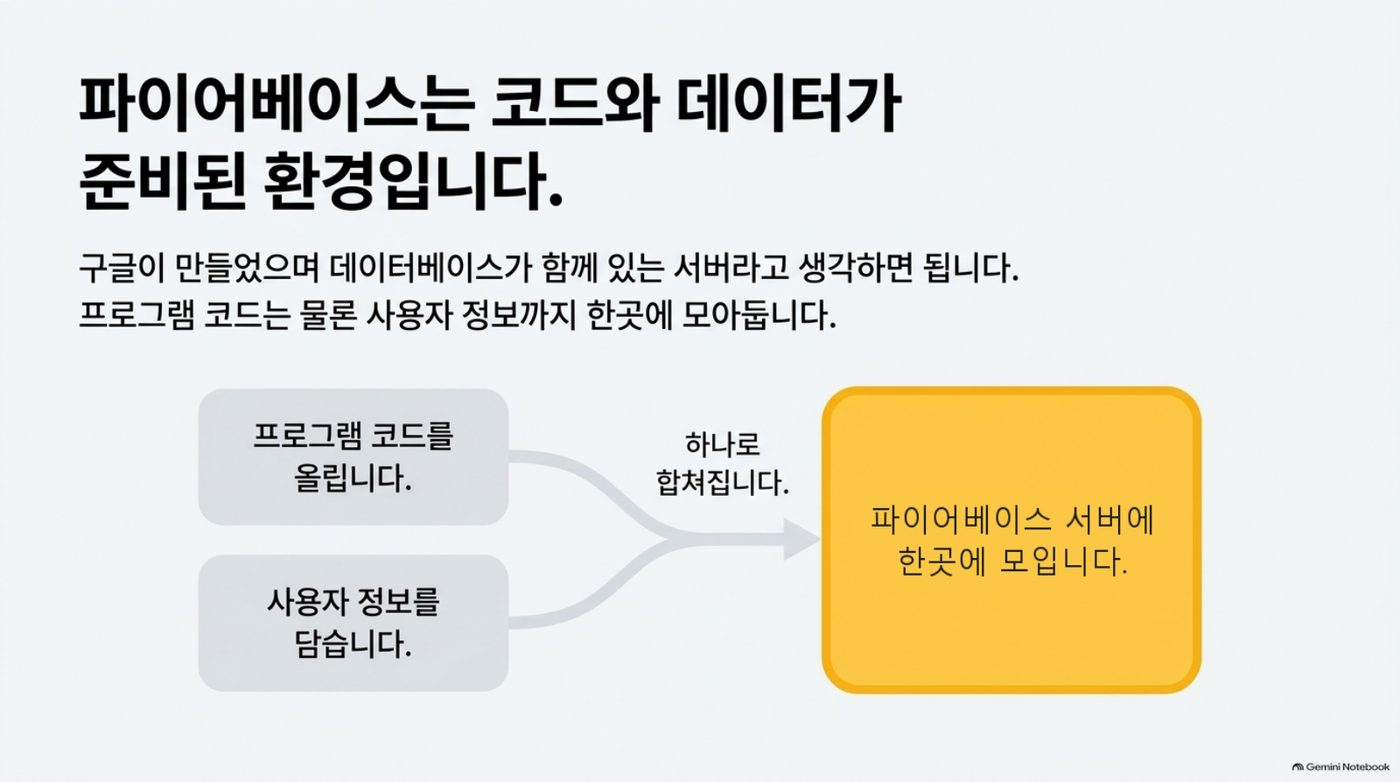
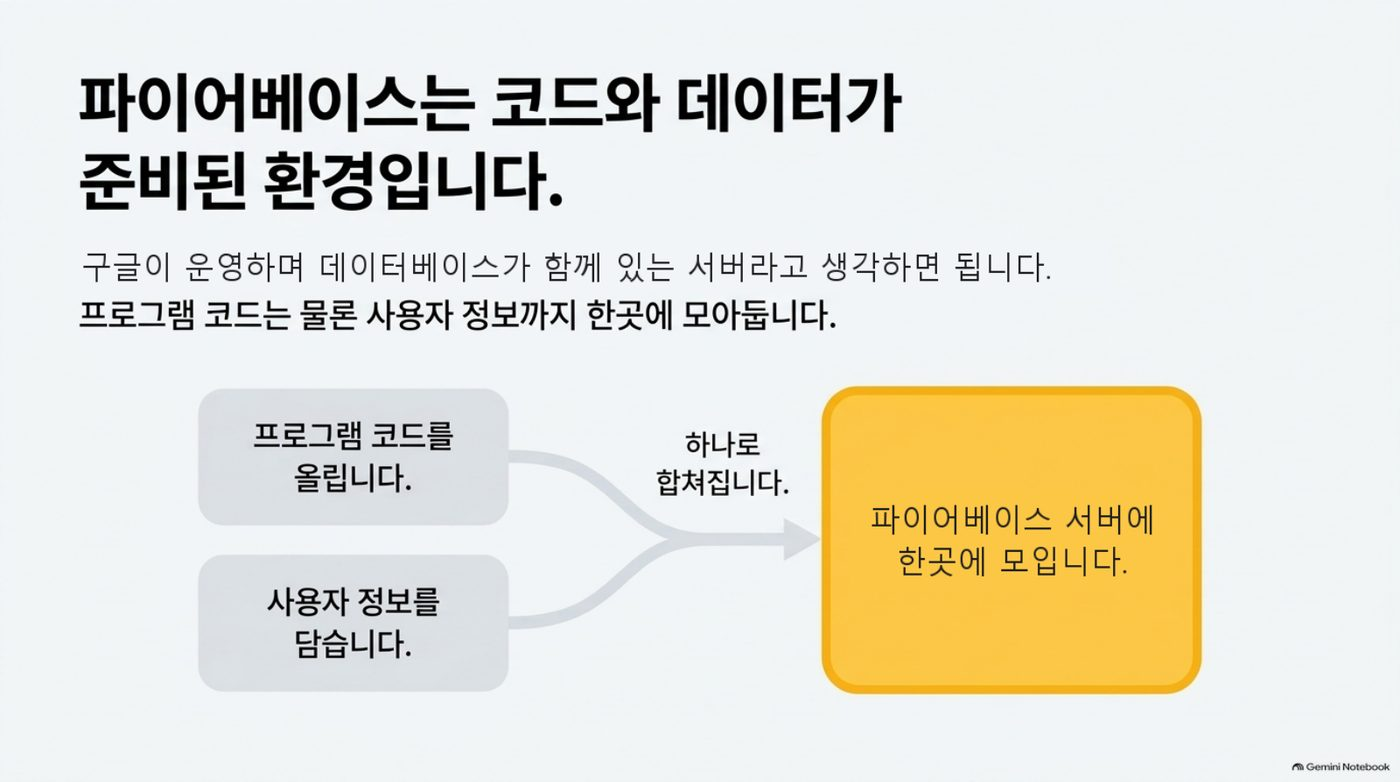
사이트 전체 사실 점검 반영 — b04 요금·부가세, a05-gcpw Home 미지원, a05 소유권 이전·Intune, a05-flex 관리 라이선스, a02 버전 30일, b13 나이팅게일 42→2%, b00 파이어베이스 인수(슬라이드 6쪽 덮어 고침) + 「✏ 강의 뒤 보충」

Changed region(s): [[0.0614, 0.3069, 0.7371, 0.3683]]

diff --git a/data.js b/data.js
@@ -201,6 +201,7 @@ const ITEM_SLIDES = {
    첫 화면에는 앞의 6개만 보입니다. 오래된 줄은 지우지 않아도 됩니다.
    ─────────────────────────────────────────────────────────────────── */
 const RECENT = [
+  { date: "2026-10-24", id: "a02", what: "사이트 전체 사실 점검 — 요금·지원 범위·버전 보관 기간 등 10곳을 근거와 함께 바로잡음(「✏ 강의 뒤 보충」)" },
   { date: "2026-10-24", id: "a08-vids", what: "「✏ 강의 뒤 보충」 칸을 새로 둠 — 비즈 영상 30분·미트 시간 제한·깃허브를 만든 사람을 바로잡음" },
   { date: "2026-10-23", id: "b00", what: "처음 듣는 개발 용어 슬라이드 9쪽 — 깃허브·버셀·파이어베이스·API·CLI를 한 장의 지도로" },
   { date: "2026-10-22", id: "b04", what: "슬라이드 9쪽 — 시트·문서·슬라이드 안의 클로드" },
@@ -1108,7 +1109,7 @@ const CURRICULUM = [
       },
       {
         h: "구글이 만들지 않은 파일도 버전이 남습니다",
-        p: "구글 문서·시트는 자체 **버전 기록**이 있습니다. 한글·파워포인트·PDF·그림·캐드처럼 구글이 만들지 않은 파일은 **데스크톱용 드라이브가 버전을 관리**합니다 — 파일에서 마우스 오른쪽 › **파일 정보 › 버전 관리**로 들어가면 누가 언제 올렸는지 목록이 나오고(파일당 최대 100개), 필요한 버전을 **영구 보관**한 뒤 **다운로드**하면 그 시점의 파일을 받을 수 있습니다.\n\n여럿이 겹치지 않게 차례로 고치면 버전이 쌓이고, 동시에 고치면 각자 따로 저장됩니다. 실수로든 일부러든 누가 망가뜨려도 되돌릴 길이 남습니다.",
+        p: "구글 문서·시트는 자체 **버전 기록**이 있습니다. 한글·파워포인트·PDF·그림·캐드처럼 구글이 만들지 않은 파일은 **드라이브가 버전을 관리**합니다(웹에 올린 파일도 같습니다) — 파일에서 마우스 오른쪽 › **파일 정보 › 버전 관리**로 들어가면 누가 언제 올렸는지 목록이 나오고(파일당 최대 100개, **30일이 지나면 자동으로 지워지니** 남길 버전은 꼭 「영구 보관」), 필요한 버전을 **영구 보관**한 뒤 **다운로드**하면 그 시점의 파일을 받을 수 있습니다.\n\n여럿이 겹치지 않게 차례로 고치면 버전이 쌓이고, 동시에 고치면 각자 따로 저장됩니다. 실수로든 일부러든 누가 망가뜨려도 되돌릴 길이 남습니다.",
       },
       {
         h: "랜섬웨어에 걸렸다면 — 드라이브에 올려 둔 파일은 되살릴 수 있습니다",
@@ -1135,6 +1136,10 @@ const CURRICULUM = [
     docs: [
       { t: "데스크톱용 Google Drive 사용하기", u: "https://support.google.com/drive/answer/7329379?hl=ko" },
       { t: "공유 드라이브란?", u: "https://support.google.com/a/users/answer/9310351?hl=ko" },
+    ],
+    /* 강의 뒤 보충 — 강의에서 한 말 중 틀리거나 바뀐 것 (근거 확인일 포함) */
+    fixes: [
+      { was: "구글이 만들지 않은 파일은 데스크톱용 드라이브가 버전을 관리한다(최대 100개).", now: "버전 관리는 **드라이브 자체 기능**이라 웹에 올린 파일도 같습니다. 그리고 이전 버전은 **30일이 지나거나 100개를 넘으면 자동으로 지워집니다** — 남길 버전은 「영구 보관」을 눌러야 합니다.", src: [{ t: "드라이브 파일 버전 도움말", u: "https://support.google.com/drive/answer/2409045?hl=ko" }], date: "2026-10-24" },
     ],
     /* 현장에서 나온 질문 — 녹음에서 수강생이 실제로 물은 것 */
     qa: [
@@ -1455,7 +1460,7 @@ const CURRICULUM = [
       {
         h: "관리자가 볼 수 있는 것과 볼 수 없는 것",
         topic: "관리자가 볼 수 있는 것과 없는 것",
-        p: "관리자는 직원의 **내 드라이브 파일 내용을 그냥 열어 볼 수는 없습니다.** 다만 「억지로」 보는 길이 두 가지 있습니다 — ① 직원의 **비밀번호를 재설정**해 그 계정으로 들어가기 ② 관리 콘솔의 **소유권 이전**으로 직원 파일을 통째로 관리자에게 넘기기. 두 경우 모두 **직원이 반드시 알아챕니다**(비밀번호가 바뀌어 있거나, 파일이 사라져 있으니까요).\n\n공유 드라이브는 관리 콘솔의 **공유 드라이브 관리**에서 관리자가 스스로를 멤버로 넣을 수 있습니다. 그리고 파일 내용과 별개로 **누가 어떤 파일을 열고·고치고·지웠는지**는 아래의 감사 기록으로 남습니다.\n\n📌 **비밀번호는 누구에게도 알려 주지 않습니다** — 윗사람이 달라고 해도 마찬가지입니다. 알면 모르게 들어갈 수 있게 됩니다.",
+        p: "관리자는 직원의 **내 드라이브 파일 내용을 그냥 열어 볼 수는 없습니다.** 다만 「억지로」 보는 길이 두 가지 있습니다 — ① 직원의 **비밀번호를 재설정**해 그 계정으로 들어가기 ② 관리 콘솔의 **소유권 이전**으로 직원 파일을 통째로 관리자에게 넘기기. 두 경우 모두 **직원이 반드시 알아챕니다**(비밀번호가 바뀌어 있거나, 소유권이 넘어갔다는 안내 메일이 가니까요).\n\n공유 드라이브는 관리 콘솔의 **공유 드라이브 관리**에서 관리자가 스스로를 멤버로 넣을 수 있습니다. 그리고 파일 내용과 별개로 **누가 어떤 파일을 열고·고치고·지웠는지**는 아래의 감사 기록으로 남습니다.\n\n📌 **비밀번호는 누구에게도 알려 주지 않습니다** — 윗사람이 달라고 해도 마찬가지입니다. 알면 모르게 들어갈 수 있게 됩니다.",
       },
       {
         h: "그룹부터 만들어 두기 — 전 직원 · 팀 · 부서장",
@@ -1469,7 +1474,7 @@ const CURRICULUM = [
       },
       {
         h: "구글은 브라우저를, MS 365는 윈도우를 다스립니다",
-        p: "구글 워크스페이스와 MS 365 모두 **중앙 통제 시스템**입니다. 다만 MS 365는 윈도우를 만든 회사라 관리자가 **USB 차단, 바탕화면 로고, PC 켜고 끈 시각**까지 다룰 수 있고, 구글은 **크롬 브라우저**(앱·북마크·홈페이지·배경)까지 다룹니다.\n\n구글로 PC 자체를 다루고 싶다면 운영체제를 바꾸는 길이 있습니다 — 같은 묶음의 **「오래된 PC 살리기 (ChromeOS Flex)」**를 보십시오.",
+        p: "구글 워크스페이스와 MS 365 모두 **중앙 통제 시스템**입니다. 다만 MS 365는 윈도우를 만든 회사라 관리자가 **USB 차단, 바탕화면 로고, PC 켜고 끈 시각**까지 다룰 수 있고(Intune이 들어 있는 Business Premium 등 상위 요금제), 구글은 **크롬 브라우저**(앱·북마크·홈페이지·배경)까지 다룹니다.\n\n구글로 PC 자체를 다루고 싶다면 운영체제를 바꾸는 길이 있습니다 — 같은 묶음의 **「오래된 PC 살리기 (ChromeOS Flex)」**를 보십시오.",
       },
     ],
     videos: [
@@ -1477,6 +1482,11 @@ const CURRICULUM = [
     ],
     docs: [
       { t: "관리 콘솔 시작하기", u: "https://support.google.com/a/answer/182076?hl=ko" },
+    ],
+    /* 강의 뒤 보충 — 강의에서 한 말 중 틀리거나 바뀐 것 (근거 확인일 포함) */
+    fixes: [
+      { was: "관리자가 소유권을 넘기면 직원 파일이 사라지니 직원이 알아챈다.", now: "소유권을 넘겨도 **파일은 사라지지 않고** 이전 소유자도 계속 편집할 수 있습니다. 다만 **안내 메일이 가므로** 직원이 알게 되는 것은 같습니다.", src: [{ t: "관리자 소유권 이전 도움말", u: "https://knowledge.workspace.google.com/admin/drive/transfer-drive-files-to-a-new-owner-as-an-admin" }], date: "2026-10-24" },
+      { was: "MS 365는 USB 차단·바탕화면·PC 켜고 끈 시각까지 다룬다.", now: "그 기능은 **Intune이 들어 있는 요금제**(Business Premium, E3·E5 등)에서만 됩니다. Basic·Standard에는 없습니다.", src: [{ t: "Microsoft 365 Business Premium", u: "https://www.microsoft.com/microsoft-365/business/microsoft-365-business-premium" }], date: "2026-10-24" },
     ],
     /* 현장에서 나온 질문 — 녹음에서 수강생이 실제로 물은 것 */
     qa: [
@@ -1546,7 +1556,7 @@ const CURRICULUM = [
       },
       {
         h: "준비할 것",
-        p: "· **Windows 10·11 Pro 이상**(Home 버전은 일부 기능이 제한됩니다)\n· 관리 콘솔 관리자 권한 — 관리 콘솔 › 기기 › 모바일 및 엔드포인트 › 설정 › Windows에서 GCPW 설정을 켜고 설치 파일을 받습니다.\n· 설치는 각 PC에서 관리자가 한 번씩 합니다. 기존 윈도우 계정의 자료는 구글 계정과 연결해 그대로 쓸 수 있습니다.",
+        p: "· **Windows 10·11 Pro 이상**(Home 버전은 **지원되지 않습니다**)\n· 관리 콘솔 관리자 권한 — 관리 콘솔 › 기기 › 모바일 및 엔드포인트 › 설정 › Windows에서 GCPW 설정을 켜고 설치 파일을 받습니다.\n· 설치는 각 PC에서 관리자가 한 번씩 합니다. 기존 윈도우 계정의 자료는 구글 계정과 연결해 그대로 쓸 수 있습니다.",
       },
     ],
     videos: [
@@ -1554,6 +1564,10 @@ const CURRICULUM = [
     ],
     docs: [
       { t: "Windows용 Google 사용자 인증 정보 제공 프로그램(GCPW) 설치하기", u: "https://support.google.com/a/answer/9250996?hl=ko" },
+    ],
+    /* 강의 뒤 보충 — 강의에서 한 말 중 틀리거나 바뀐 것 (근거 확인일 포함) */
+    fixes: [
+      { was: "윈도우 Home 버전은 일부 기능이 제한된다.", now: "GCPW는 Windows 10·11 **Pro·Pro for Workstations·Enterprise·Education**만 지원합니다. **Home은 지원되지 않습니다.**", src: [{ t: "GCPW 설치 도움말", u: "https://knowledge.workspace.google.com/admin/devices/install-google-credential-provider-for-windows" }], date: "2026-10-24" },
     ],
     notes: [
       "한 PC에 여러 직원이 GCPW로 로그인할 수는 있지만, Windows 기기 관리에는 PC당 한 사람만 등록됩니다. 공용 PC라면 이 점을 먼저 정해 두세요.",
@@ -1567,7 +1581,7 @@ const CURRICULUM = [
     lesson: [
       {
         h: "구글로 PC 자체를 다루고 싶다면 — 운영체제를 바꿉니다",
-        p: "구글 관리 콘솔이 다룰 수 있는 것은 **크롬 브라우저**까지입니다(앱·북마크·홈페이지·배경). 윈도우를 만든 MS 365는 USB 차단이나 바탕화면까지 다룹니다. 구글 쪽에서 PC 전체를 다루려면 운영체제를 **ChromeOS**로 바꾸면 됩니다. 새 크롬북에 들어가는 ChromeOS는 유료이고, 가지고 있는 PC에 까는 **ChromeOS Flex는 무료**입니다.",
+        p: "구글 관리 콘솔이 다룰 수 있는 것은 **크롬 브라우저**까지입니다(앱·북마크·홈페이지·배경). 윈도우를 만든 MS 365는 USB 차단이나 바탕화면까지 다룹니다(Intune이 들어 있는 상위 요금제). 구글 쪽에서 PC 전체를 다루려면 운영체제를 **ChromeOS**로 바꾸면 됩니다. 새 크롬북에 들어가는 ChromeOS는 유료이고, 가지고 있는 PC에 까는 **ChromeOS Flex는 무료**입니다. 다만 관리 콘솔에 등록해 원격으로 관리하거나 한 가지 목적의 PC(키오스크)로 쓰려면 **기기마다 유료 관리 라이선스**가 필요합니다.",
       },
       {
         h: "어떤 PC에 까나 — 기관 어딘가에 잠들어 있는 그 PC",
@@ -1583,6 +1597,10 @@ const CURRICULUM = [
       { t: "ChromeOS Flex 소개 (구글)", u: "https://chromeenterprise.google/intl/ko_kr/os/chromeosflex/" },
       { t: "ChromeOS Flex 설치 준비", u: "https://support.google.com/chromeosflex/answer/11552529?hl=ko" },
       { t: "ChromeOS Flex 인증 모델 목록", u: "https://support.google.com/chromeosflex/answer/11513094?hl=ko" },
+    ],
+    /* 강의 뒤 보충 — 강의에서 한 말 중 틀리거나 바뀐 것 (근거 확인일 포함) */
+    fixes: [
+      { was: "ChromeOS Flex는 무료이고, 관리 콘솔로 한 가지 목적의 PC로 쓸 수 있다.", now: "Flex 운영체제는 무료가 맞습니다. 그러나 **관리 콘솔에 등록해 관리하거나 키오스크로 쓰려면 기기마다 유료 라이선스**(Chrome Enterprise Upgrade, Kiosk & Signage Upgrade 등)가 필요합니다.", src: [{ t: "ChromeOS Flex 도움말", u: "https://support.google.com/chromeosflex/answer/13007418" }], date: "2026-10-24" },
     ],
     /* 현장에서 나온 질문 — 녹음에서 수강생이 실제로 물은 것 */
     qa: [
@@ -1857,7 +1875,7 @@ const CURRICULUM = [
     lesson: [
       {
         h: "다섯 낱말, 한 줄로",
-        p: "· **바이브 코딩** — 말로 시키면 인공지능이 코드를 씁니다. 문과생·사회복지사도 만들 수 있습니다.\n· **깃허브** — 그 코드를 올려 두는 「코드 도서관」. 공개·비공개를 고르고, 여럿이 함께 고칠 수 있습니다.\n· **버셀·파이어베이스** — 코드를 실행해 다른 사람이 **주소로** 쓰게 나눠 주는 곳. 깃허브에 고친 코드를 올리면 자동으로 바뀝니다. 파이어베이스는 구글이 만든, 데이터베이스까지 갖춘 환경입니다.\n· **API** — 바깥의 정보·기능을 내 프로그램으로 잇는 연결 통로. 예: 공휴일 공공데이터를 달력에, 지도 서비스의 거리·요금을 차량 운행 일지에.\n· **CLI** — 글자로 명령하는 화면. 인공지능이 글자를 다루기 쉬워서, 인공지능에게 쥐여 주는 도구가 됩니다.",
+        p: "· **바이브 코딩** — 말로 시키면 인공지능이 코드를 씁니다. 문과생·사회복지사도 만들 수 있습니다.\n· **깃허브** — 그 코드를 올려 두는 「코드 도서관」. 공개·비공개를 고르고, 여럿이 함께 고칠 수 있습니다.\n· **버셀·파이어베이스** — 코드를 실행해 다른 사람이 **주소로** 쓰게 나눠 주는 곳. 깃허브에 고친 코드를 올리면 자동으로 바뀝니다. 파이어베이스는 구글이 운영하는(2014년 인수), 데이터베이스까지 갖춘 환경입니다.\n· **API** — 바깥의 정보·기능을 내 프로그램으로 잇는 연결 통로. 예: 공휴일 공공데이터를 달력에, 지도 서비스의 거리·요금을 차량 운행 일지에.\n· **CLI** — 글자로 명령하는 화면. 인공지능이 글자를 다루기 쉬워서, 인공지능에게 쥐여 주는 도구가 됩니다.",
       },
       {
         h: "모두가 알아야 하나요?",
@@ -1869,6 +1887,7 @@ const CURRICULUM = [
     /* 강의 뒤 보충 — 강의에서 한 말 중 틀리거나 바뀐 것 (근거 확인일 포함) */
     fixes: [
       { was: "깃허브는 리눅스를 만든 사람이 처음 만들었고, 뒤에 마이크로소프트가 샀다.", now: "리누스 토르발스가 만든 것은 **깃(Git)** 입니다. **깃허브**는 깃을 바탕으로 2008년 다른 개발자들이 세운 서비스이고, 2018년부터 마이크로소프트 소속입니다.", src: [{ t: "GitHub (위키백과)", u: "https://en.wikipedia.org/wiki/GitHub" }], date: "2026-10-24" },
+      { was: "파이어베이스는 구글이 만든 개발 환경이다.", now: "파이어베이스는 2011년 다른 창업자들이 세운 회사이고, **2014년 구글이 인수**했습니다. 지금은 구글이 운영합니다.", src: [{ t: "Firebase (Y Combinator)", u: "https://www.ycombinator.com/companies/firebase" }], date: "2026-10-24" },
     ],
     notes: [],
   },
@@ -2013,7 +2032,7 @@ const CURRICULUM = [
     lesson: [
       {
         h: "나이팅게일은 간호사이자 통계학자였습니다",
-        p: "크림전쟁(1853) 후방기지에 배치된 플로렌스 나이팅게일은, 군인들이 전투가 아니라 **전염병으로 죽고 있다**는 것을 알아냅니다. 그는 그것을 말로 설명하지 않고 **로즈 다이어그램**이라는 그림으로 그려 보였습니다.\n\n결과는 **사망률 42% → 4%.** 데이터가 사람을 살린 가장 유명한 사례입니다.",
+        p: "크림전쟁(1853) 후방기지에 배치된 플로렌스 나이팅게일은, 군인들이 전투가 아니라 **전염병으로 죽고 있다**는 것을 알아냅니다. 그는 그것을 말로 설명하지 않고 **로즈 다이어그램**이라는 그림으로 그려 보였습니다.\n\n결과는 **사망률 42% → 2%.** 사망률은 위생을 개선한 뒤 떨어졌고, 그림은 전쟁 뒤(1858년) 보고서에 실려 군 병원 개혁을 이끌었습니다. 데이터가 사람을 살린 가장 유명한 사례입니다.",
       },
       {
         h: "왜 표가 아니라 그림이어야 하나",
@@ -2047,6 +2066,10 @@ const CURRICULUM = [
     ],
     videos: [],
     docs: [],
+    /* 강의 뒤 보충 — 강의에서 한 말 중 틀리거나 바뀐 것 (근거 확인일 포함) */
+    fixes: [
+      { was: "나이팅게일이 로즈 다이어그램을 그려 보였고, 결과는 사망률 42% → 4%.", now: "흔히 인용되는 숫자는 **42% → 2%**입니다. 사망률은 1855년 위생 개선 뒤 떨어졌고, 로즈 다이어그램은 **전쟁 뒤 1858년** 보고서에 실려 군 병원 개혁을 이끌었습니다.", src: [{ t: "History of Medicine — Florence Nightingale", u: "https://www.historyofmedicine.com/author/d/florence-nightingale" }, { t: "The Scientist — Diagrammatic, 1858", u: "https://www.the-scientist.com/diagrammatic-war-1858-70702" }], date: "2026-10-24" },
+    ],
     notes: [],
   },
   {
@@ -2057,7 +2080,7 @@ const CURRICULUM = [
     lesson: [
       {
         h: "개인 유료 계정을 쓰고 계신다면 — 기관으로 옮기실 때입니다",
-        p: "세 회사 모두 비영리단체 요금제를 갖추고 있습니다. **Claude Team Standard 인당 월 $8.8**(2명부터), **ChatGPT Business 인당 월 $11**(연간 결제 시 $8.8, 2명부터), **Google Workspace Business Standard 인당 월 $4.2**(연간 약정). 개인이 따로 결제하는 것보다 싸고, 무엇보다 **자료가 학습에 쓰이지 않습니다.**",
+        p: "세 회사 모두 비영리단체 요금제를 갖추고 있습니다. **Claude Team Standard 인당 월 $8.8**(2명부터), **ChatGPT Business 인당 월 $11**(연간 결제 시 $8.8, 2명부터), **Google Workspace Business Standard 인당 월 $3.5**(연간 약정 · 월 결제는 $4.2). ※ 클로드·챗GPT 금액은 부가세 10%를 더한 값입니다(공식 표기 클로드 $8, 챗GPT 월 결제 $10·연간 $8). 개인이 따로 결제하는 것보다 싸고, 무엇보다 **자료가 학습에 쓰이지 않습니다.**",
       },
       {
         h: "무엇을 고를 것인가",
@@ -2152,6 +2175,10 @@ const CURRICULUM = [
     docs: [
       { t: "이제는 엄청 저렴한 비영리단체용 AI를 쓰세요 — 강사님 정리", u: "https://docs.google.com/document/d/1aeFJErcHUaAsva1nqXpu4L9_YgwU02Ni8bfLAPKJUeM/edit" },
       { t: "Claude Code 공식 문서", u: "https://docs.claude.com/en/docs/claude-code/overview" },
+    ],
+    /* 강의 뒤 보충 — 강의에서 한 말 중 틀리거나 바뀐 것 (근거 확인일 포함) */
+    fixes: [
+      { was: "비영리 Business Standard 인당 월 $4.2(연간 약정) · 클로드 $8.8 · 챗GPT $11", now: "비영리 Business Standard는 **연간 약정 $3.5**(월 결제 $4.2)입니다. 클로드·챗GPT 금액은 **부가세 10% 포함** 값이고 공식 표기는 클로드 $8, 챗GPT 월 $10·연간 $8입니다.", src: [{ t: "구글 비영리 요금 비교", u: "https://www.google.com/nonprofits/workspace/compare/" }, { t: "Claude for Nonprofits", u: "https://claude.com/solutions/nonprofits" }, { t: "Goodstack — OpenAI", u: "https://goodstack.org/software-discounts/openai" }], date: "2026-10-24" },
     ],
     /* 현장에서 나온 질문 — 녹음에서 수강생이 실제로 물은 것 */
     qa: [

diff --git a/index.html b/index.html
@@ -21,7 +21,7 @@
 <meta name="twitter:title" content="GWS &amp; AI 교육 아카이브">
 <meta name="twitter:description" content="도구보다, 일하는 방식의 변화">
 <meta name="twitter:image" content="https://dreamworker0.github.io/gws-ai-training/img/dreamwork-og-v2.png">
-<link rel="stylesheet" href="style.css?v=d2bf123">
+<link rel="stylesheet" href="style.css?v=2733fa3">
 </head>
 <body>
 
@@ -243,9 +243,9 @@
   </div>
 </div>
 
-<script src="data.js?v=d2bf123"></script>
-<script src="find.js?v=d2bf123"></script>
-<script src="ui-state.js?v=d2bf123"></script>
-<script src="app.js?v=d2bf123"></script>
+<script src="data.js?v=2733fa3"></script>
+<script src="find.js?v=2733fa3"></script>
+<script src="ui-state.js?v=2733fa3"></script>
+<script src="app.js?v=2733fa3"></script>
 </body>
 </html>
